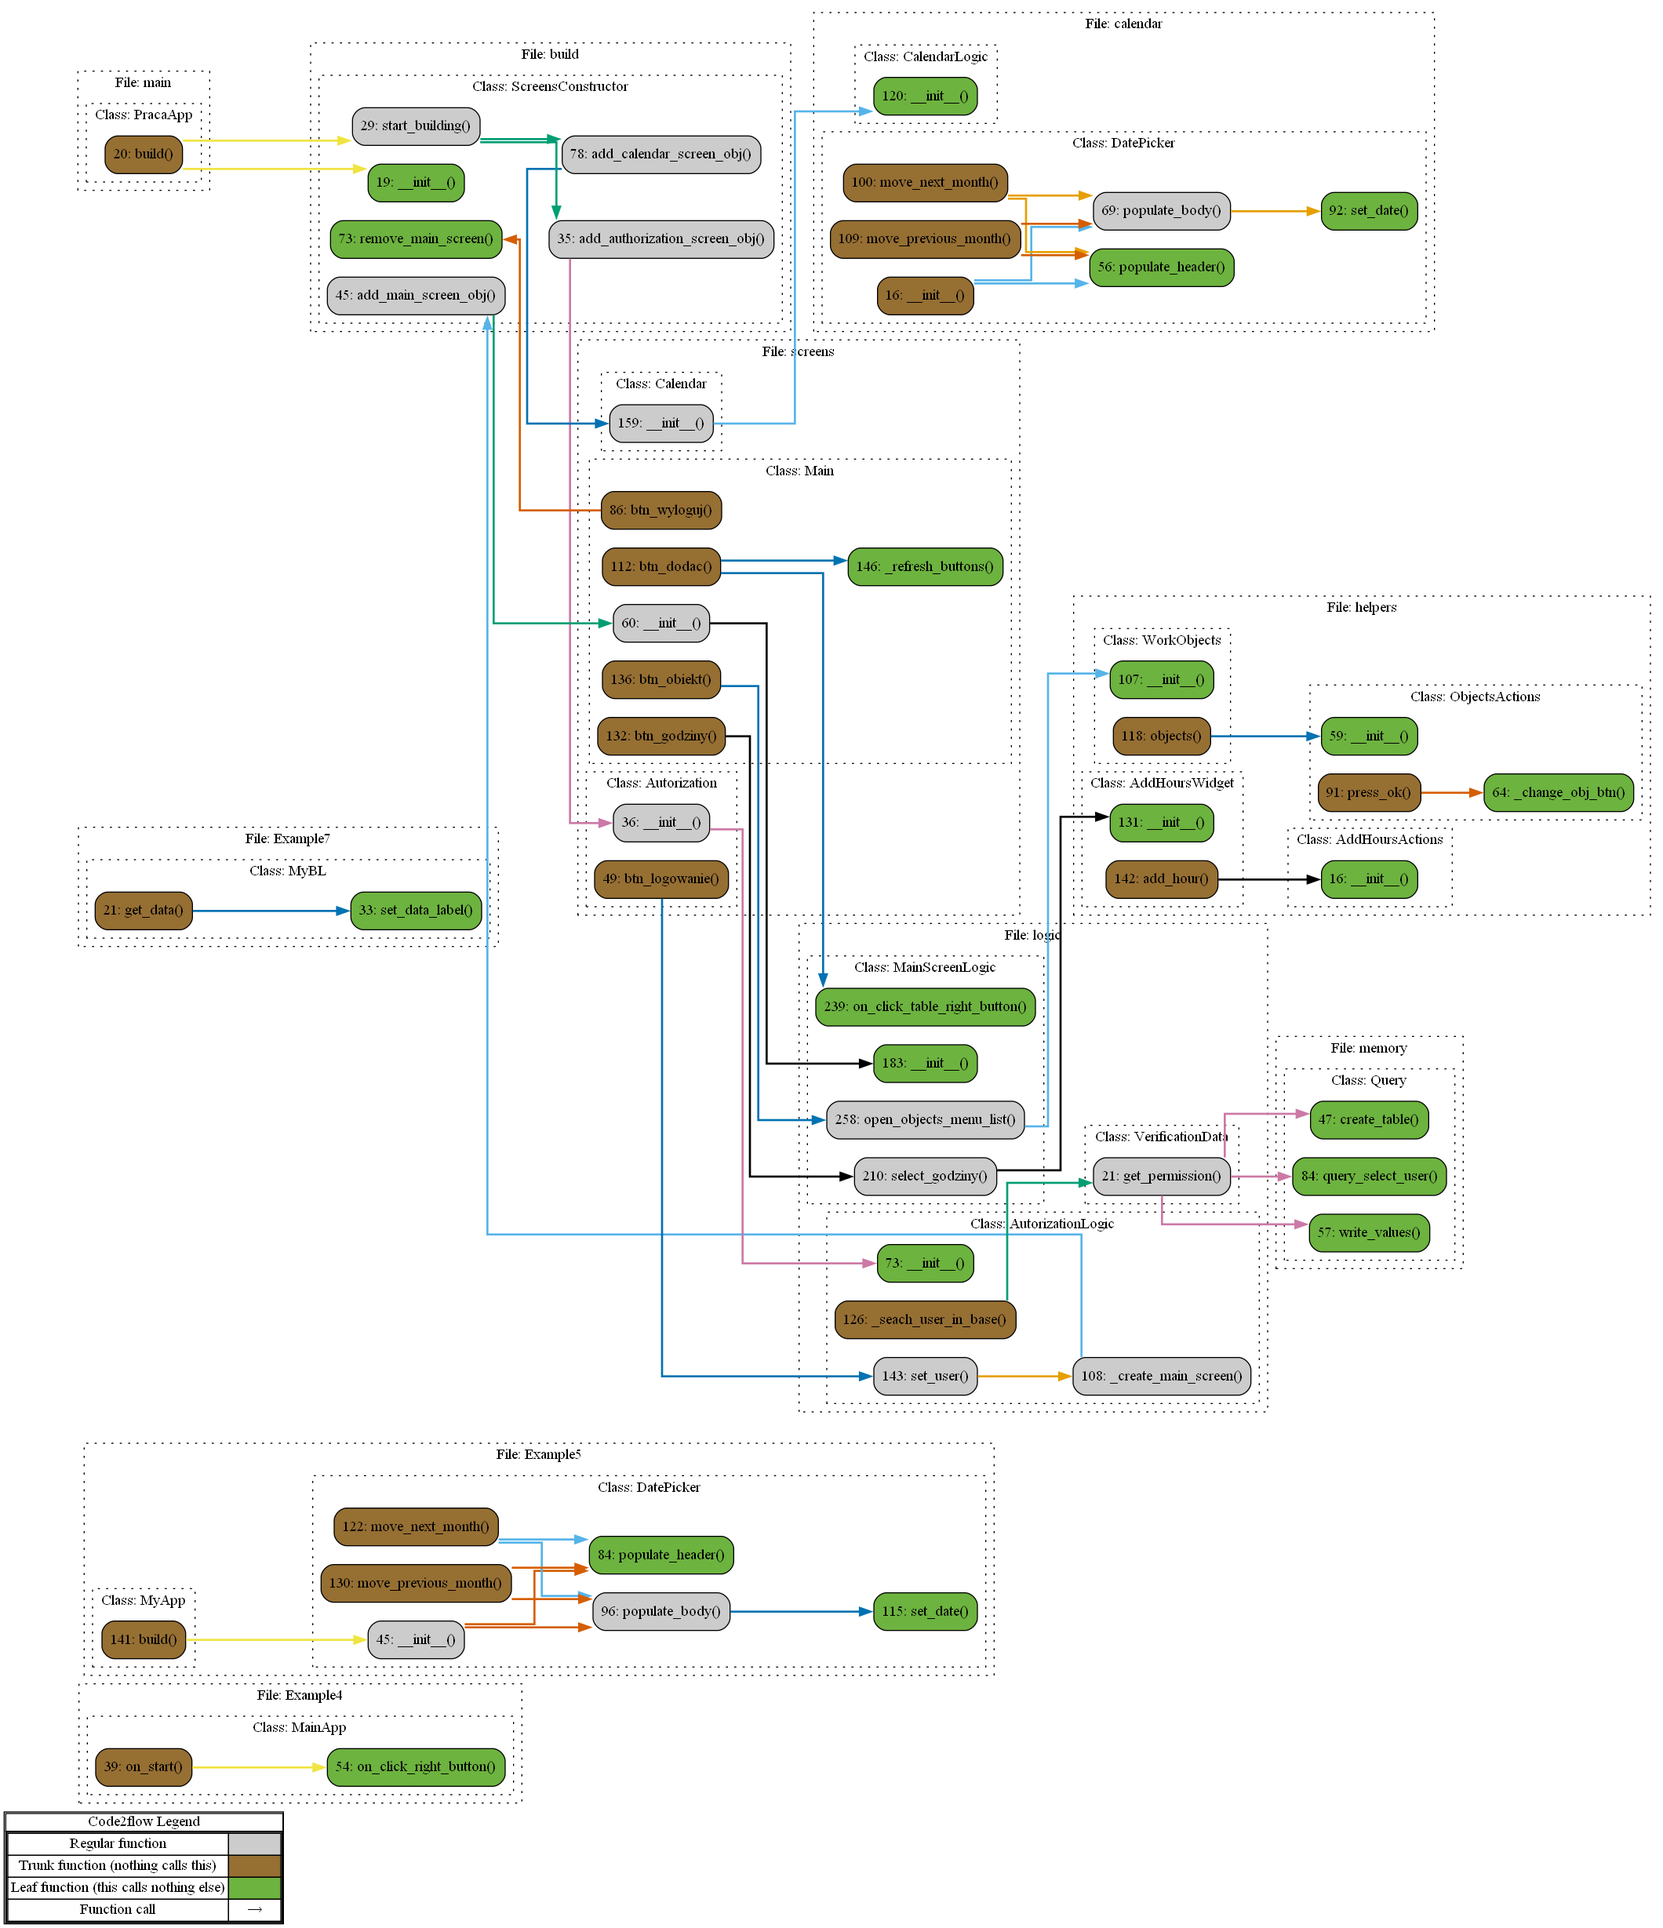
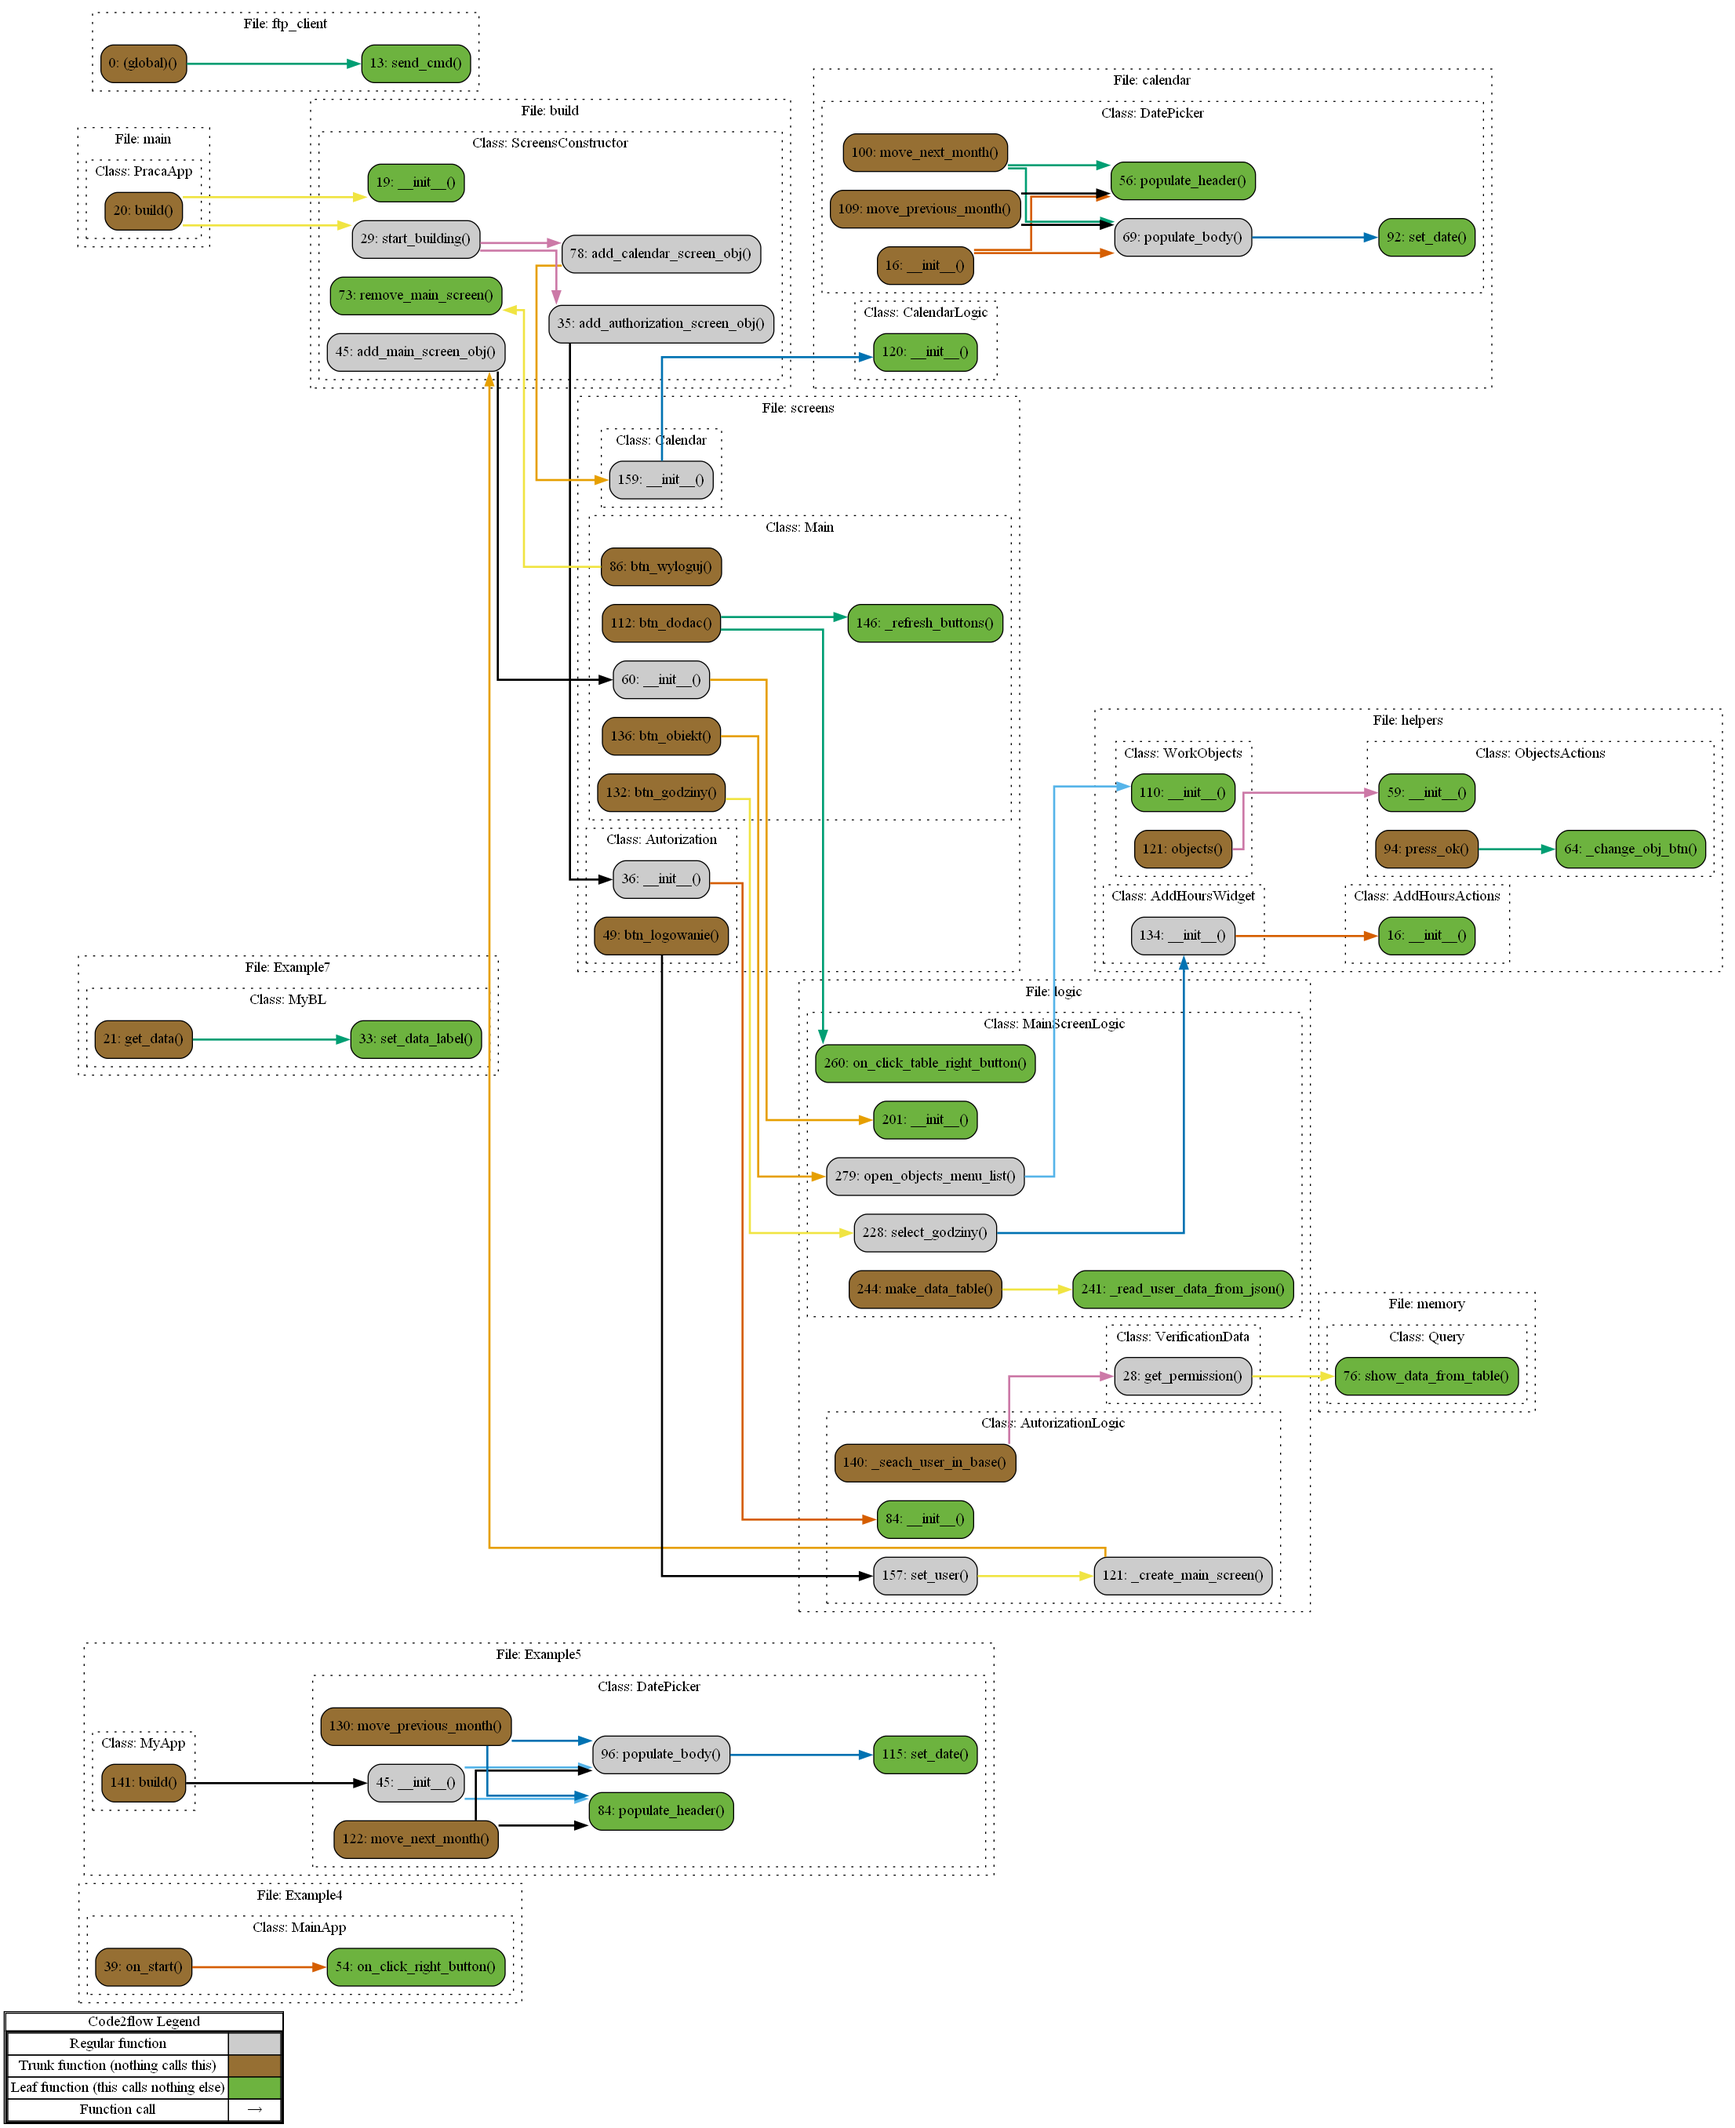
v0.0.74

diff --git a/scripts/ftp_client.py b/scripts/ftp_client.py
@@ -1,5 +1,6 @@
+# запускай из /Praca командой python ./scripts/ftp_client.py
+
 from ftplib import FTP_TLS
-# from OpenSSL import SSL
 import os
 
 HOST = "167.71.37.89"
@@ -7,18 +8,19 @@ PORT = 1488
 
 # ftp_dir = '.'
 CERTFILE = os.path.abspath(os.path.join(os.path.dirname(__file__),
-                                        "./.ssl/cert.pem"))
+                                        "../static/.ssl/cert.pem"))
+
+def send_cmd() -> str:
+    return ftps.sendcmd('pwd')
 
 if __name__ == '__main__':
     ftps = FTP_TLS()
+
     ftps.certfile = CERTFILE
     ftps.connect(HOST, PORT)
-
     ftps.login('user', '12345')
 
-    # ftps.cwd(ftp_dir)
-
-    data = ftps.sendcmd('pwd')
+    data = send_cmd()
     print(data)
 
     ftps.quit()

diff --git a/scripts/logic_to_png.py b/scripts/logic_to_png.py
@@ -1,0 +1,8 @@
+import os
+
+cur_dir = os.path.dirname(os.path.abspath(__file__))
+os.system(
+    f'code2flow . --language py --output {cur_dir[:-8]}\dev\static\logic.png'
+    )
+
+os.remove(f'{cur_dir[:-8]}\\dev\\static\\logic.gv')

diff --git a/readme.md b/readme.md
@@ -10,9 +10,9 @@ ___
 	<img src="./dev/static/Pasted image 20230416134442.png" width="400" height="840" style="margin-right: 10px; display: inline-block;">
 </div>
 
-Программа для автоматизации бизнес-процессов: позволяет автоматизировать деловые процессы, облегчая их управление и повышая эффективность
+Программа для автоматизации бизнес-процессов: позволяет автоматизировать деловые процессы, облегчая их управление и повышая эффективность.
 
-Приложение для обмена файлами: позволяет пользователям обмениваться файлами между собой без использования дополнительных сервисов
+Приложение для обмена файлами: позволяет пользователям обмениваться файлами между собой.
 
 # Pracodawca i pracownik
 
@@ -33,10 +33,14 @@ ___
 - **/dev** - папка для разработки приложения Praca
 	- **/action** - действия и логика
 	- **/db** - работа с базой данных
-	- **/static** - логи, картинки, apk и пр.
+	- **/static** - логи, доки, картинки, apk и др.
+		- **/android_app** - apk на андроид
 		- **/doc** - дополнительная информация
+		- **/logs** - логи работы приложения
+		- **/wallpapers** - картинки
 	- **/view** - отображение для пользователя
 - **/scripts** - вспомогательные сценарии
+	- 
 
 # Запустить проект
 
@@ -91,6 +95,10 @@ git push -u origin dev
 ```bash
 pip3 install code2flow
 code2flow . --language py --output ./static/logic.png 
+```
+
+```bash
+python scripts/logic_to_png.py
 ```
 
 ___
